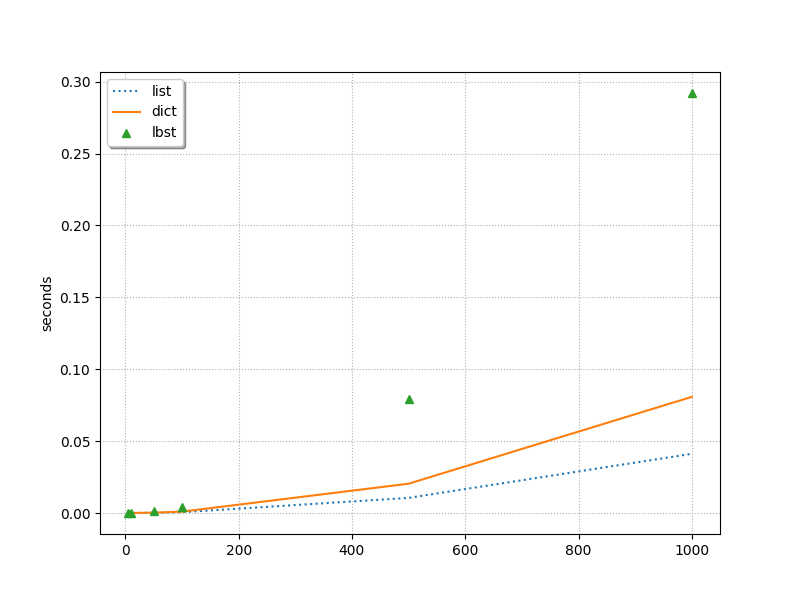
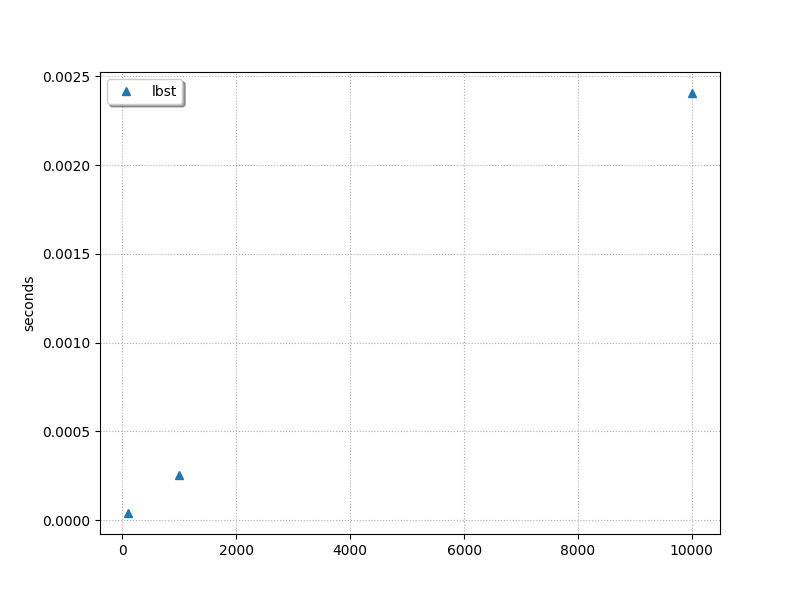
wip

diff --git a/lbst.py b/lbst.py
@@ -16,6 +16,24 @@ Node = namedtuple("Node", "key value size left right")
 NODE_NULL = Node(None, None, 0, None, None)
 
 
+# immutable filo
+
+FILO_NULL = object()
+
+def _make_filo():
+    return FILO_NULL
+
+def _filo_push(filo, object):
+    return (object, filo)
+
+def _filo_peek(filo):
+    return filo[0]
+
+def _filo_pop(filo):
+    return filo[0], filo[1]
+
+# lbst and node
+
 def make():
     return LBST(NODE_NULL)
 
@@ -161,16 +179,6 @@ def delete(lbst, key):
     return LBST(_node_delete(lbst.root, key))
 
 
-def _node_to_dict(node, out):
-    if node.left is not NODE_NULL:
-        _node_to_dict(node.left, out)
-
-    out[node.key] = node.value
-
-    if node.right is not NODE_NULL:
-        _node_to_dict(node.right, out)
-
-
 def _node_is_balanced(node):
     if node is NODE_NULL:
         return True
@@ -230,30 +238,33 @@ Cursor = namedtuple("Cursor", "stack")
 
 
 def cursor(lbst):
-    return Cursor([lbst.root])
+    filo = _make_filo()
+    filo = _filo_push(filo, lbst.root)
+    # XXX: boxing the filo, to be able to replace it. That is why
+    # cursor is stateful.
+    return Cursor([filo])
 
 
 def cursor_clone(cursor):
-    return Cursor(list(cursor.stack))
+    return Cursor([cursor.stack[0]])
 
 
 def cursor_seek(cursor, key):
     while True:
-        if key < cursor.stack[-1].key:
-            # copy!
-            stack = list(cursor.stack)
+        node = _filo_peek(cursor.stack[0])
+        if key < node.key:
+            filo = cursor.stack[0]
             if cursor_previous(cursor):
                 continue
             else:
-                cursor.stack[:] = stack
+                cursor.stack[0] = filo
                 return 1
-        elif cursor.stack[-1].key < key:
-            # copy!
-            stack = list(cursor.stack)
+        elif node.key < key:
+            filo = cursor.stack[0]
             if cursor_next(cursor):
                 continue
             else:
-                cursor.stack[:] = stack
+                cursor.stack[0] = filo
                 return -1
         else:
             return 0
@@ -269,73 +280,84 @@ def get(lbst, key, default=None):
 
 
 def cursor_key(cursor):
-    if not cursor.stack:
-        raise RuntimeError("Invalid cursor")
-    return cursor.stack[-1].key
+    assert cursor.stack[0] is not FILO_NULL
+
+    return cursor.stack[0][0].key
 
 
 def cursor_value(cursor):
-    if not cursor.stack:
-        raise RuntimeError("Invalid cursor")
-    return cursor.stack[-1].value
+    assert cursor.stack[0] is not FILO_NULL
+
+    return cursor.stack[0][0].value
 
 
 def cursor_next(cursor):
-    if not cursor.stack:
-        raise RuntimeError("Invalid cursor")
+    assert cursor.stack[0] is not FILO_NULL
 
-    node = cursor.stack[-1]
+    node = _filo_peek(cursor.stack[0])
 
     if node.right is NODE_NULL:
-        cursor.stack.pop()
+        node, filo = _filo_pop(cursor.stack[0])
+        while filo is not FILO_NULL:
+            parent, rest = _filo_pop(filo)
 
-        while cursor.stack:
-            if not cursor.stack:
-                return False
-
-            parent = cursor.stack[-1]
             if parent.left is node:
+                cursor.stack[0] = filo
                 return True
-            node = cursor.stack.pop()
+
+            node = parent
+            filo = rest
         return False
     else:
         # Then the next value is the minimal value in node.right.
 
         # Go through the sub-tree always turning left until a
         # NODE_NULL is found.
-        cursor.stack.append(node.right)
-        while True:
-            if cursor.stack[-1].left is NODE_NULL:
-                break
-            cursor.stack.append(cursor.stack[-1].left)
+        node = node.right
+        filo = _filo_push(cursor.stack[0], node)
+        while node.left is not NODE_NULL:
+            node = node.left
+            filo = _filo_push(filo, node)
+        cursor.stack[0] = filo
         return True
 
 
 def cursor_previous(cursor):
-    if not cursor.stack:
-        raise RuntimeError("Invalid cursor")
+    assert cursor.stack[0] is not FILO_NULL
 
-    node = cursor.stack[-1]
+    node = _filo_peek(cursor.stack[0])
 
     if node.left is NODE_NULL:
-        cursor.stack.pop()
-        while cursor.stack:
-            if not cursor.stack:
-                return False
+        node, filo = _filo_pop(cursor.stack[0])
 
-            parent = cursor.stack[-1]
+        while filo is not FILO_NULL:
+            parent, rest = _filo_pop(filo)
+
             if parent.right is node:
+                cursor.stack[0] = filo
                 return True
-            node = cursor.stack.pop()
+            node = parent
+            filo = rest
 
         return False
     else:
-        cursor.stack.append(node.left)
-        while True:
-            if cursor.stack[-1].right is NODE_NULL:
-                break
-            cursor.stack.append(cursor.stack[-1].right)
+        node = node.left
+        filo = _filo_push(cursor.stack[0], node)
+        while node.right is not NODE_NULL:
+            node = node.right
+            filo = _filo_push(filo, node)
+        cursor.stack[0] = filo
         return True
+
+
+def _node_to_dict(node, out):
+    if node.left is not NODE_NULL:
+        _node_to_dict(node.left, out)
+
+    out[node.key] = node.value
+
+    if node.right is not NODE_NULL:
+        _node_to_dict(node.right, out)
 
 
 def to_dict(lbst):

diff --git a/tests.py b/tests.py
@@ -9,7 +9,7 @@ def test_mic():
 
 
 MAGIC = 100
-TREE_MAX_SIZE = random.randint(MAGIC, MAGIC * 100)
+TREE_MAX_SIZE = 10000 # random.randint(MAGIC, MAGIC * 100)
 INTEGER_MAX = random.randint(MAGIC, MAGIC * 10_000)
 
 
@@ -17,7 +17,7 @@ def test_balanced_and_sorted_random_trees_of_integers():
     for _ in range(MAGIC):
         # given
         expected = dict()
-        tree = lbst.make(operator.lt)
+        tree = lbst.make()
         for i in range(TREE_MAX_SIZE):
             key = value = random.randint(-INTEGER_MAX, INTEGER_MAX)
             tree = lbst.set(tree, key, value)
@@ -34,7 +34,7 @@ def test_balanced_and_sorted_random_trees_of_floats():
     for _ in range(MAGIC):
         # given
         expected = dict()
-        tree = lbst.make(operator.lt)
+        tree = lbst.make()
         for i in range(TREE_MAX_SIZE):
             key = value = random.uniform(-INTEGER_MAX, INTEGER_MAX)
             tree = lbst.set(tree, key, value)
@@ -54,7 +54,7 @@ def test_min():
         ]
         values = sorted(values)
 
-        tree = lbst.make(operator.lt)
+        tree = lbst.make()
         for value in values:
             tree = lbst.set(tree, value, value)
 
@@ -68,7 +68,7 @@ def test_max():
         ]
         values = sorted(values)
 
-        tree = lbst.make(operator.lt)
+        tree = lbst.make()
         for value in values:
             tree = lbst.set(tree, value, value)
 
@@ -82,7 +82,7 @@ def test_cursor_next():
         ]
         values = sorted(set(values))
 
-        tree = lbst.make(operator.lt)
+        tree = lbst.make()
         for value in values:
             tree = lbst.set(tree, value, value)
 
@@ -107,7 +107,7 @@ def test_cursor_previous():
         ]
         values = sorted(set(values))
 
-        tree = lbst.make(operator.lt)
+        tree = lbst.make()
         for value in values:
             tree = lbst.set(tree, value, value)
 
@@ -134,11 +134,9 @@ def test_delete():
 
         to_delete = values[0]
 
-        print("to_delete", to_delete)
-
         values = sorted(set(values))
 
-        tree = lbst.make(operator.lt)
+        tree = lbst.make()
         for value in values:
             tree = lbst.set(tree, value, value)
 

diff --git a/benchmarks.py b/benchmarks.py
@@ -1,5 +1,5 @@
 from random import randint
-# from matplotlib.pylab import *
+#from matplotlib.pylab import *
 import time
 
 import lbst
@@ -15,7 +15,7 @@ INTEGER_MAX = 2**16
 
 
 ava = dict()
-ava["kvcount"] = [1_000, 10_000]
+ava["kvcount"] = [100, 1_000, 10_000]
 ava["list"] = []
 ava["dict"] = []
 ava["lbst"] = []
@@ -97,7 +97,7 @@ for kvcount in ava["kvcount"]:
             timing = timeit(func, values)
             timings.append(timing)
         timing = average(timings)
-        ava[name].append(timing)
+        ava[name].append(timing / kvcount)
         print(kvcount, name, timing)
 
 
